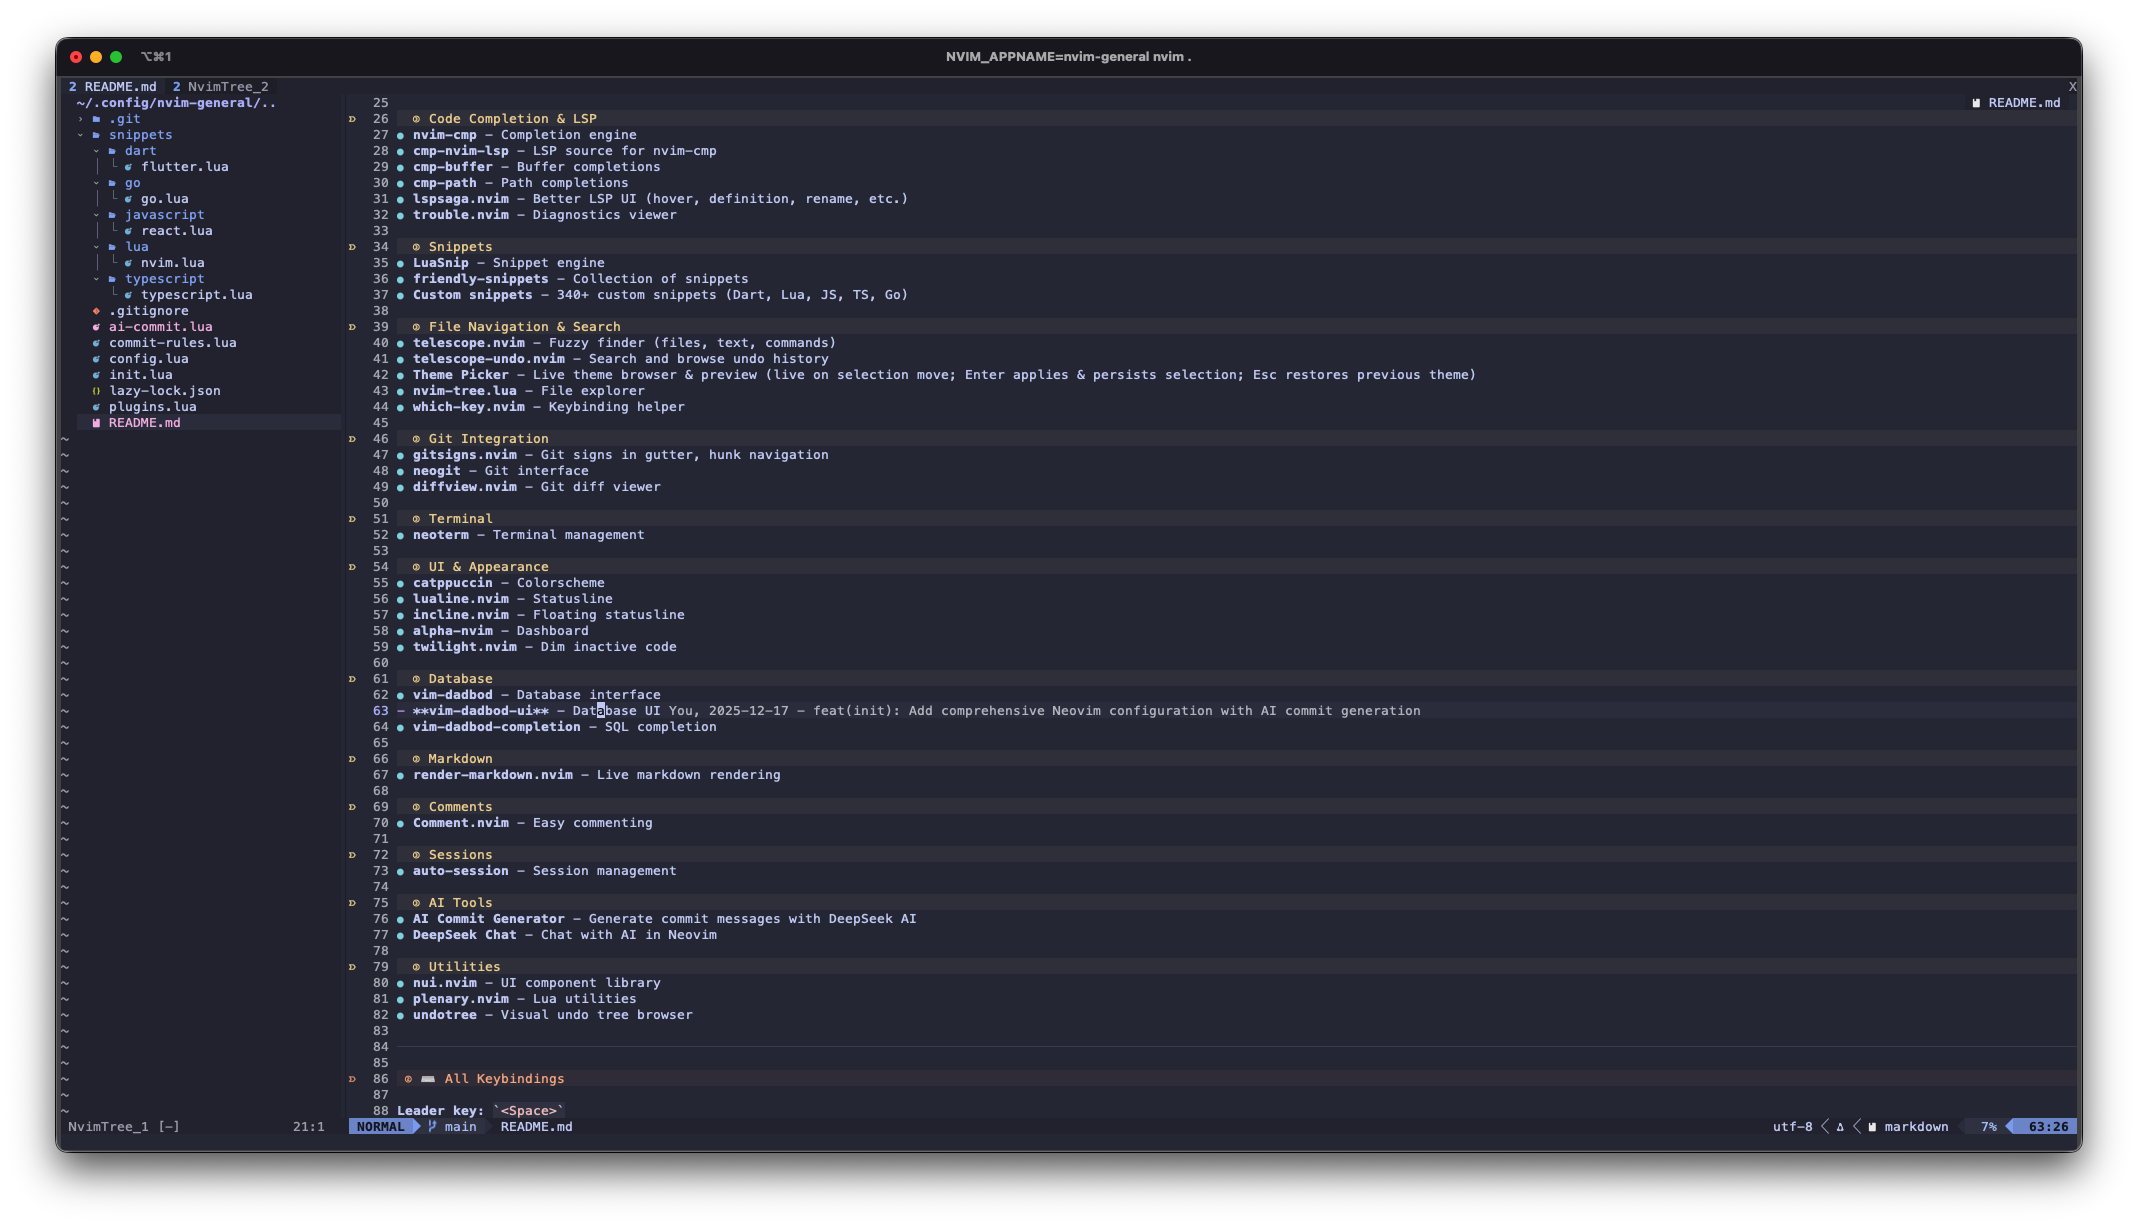
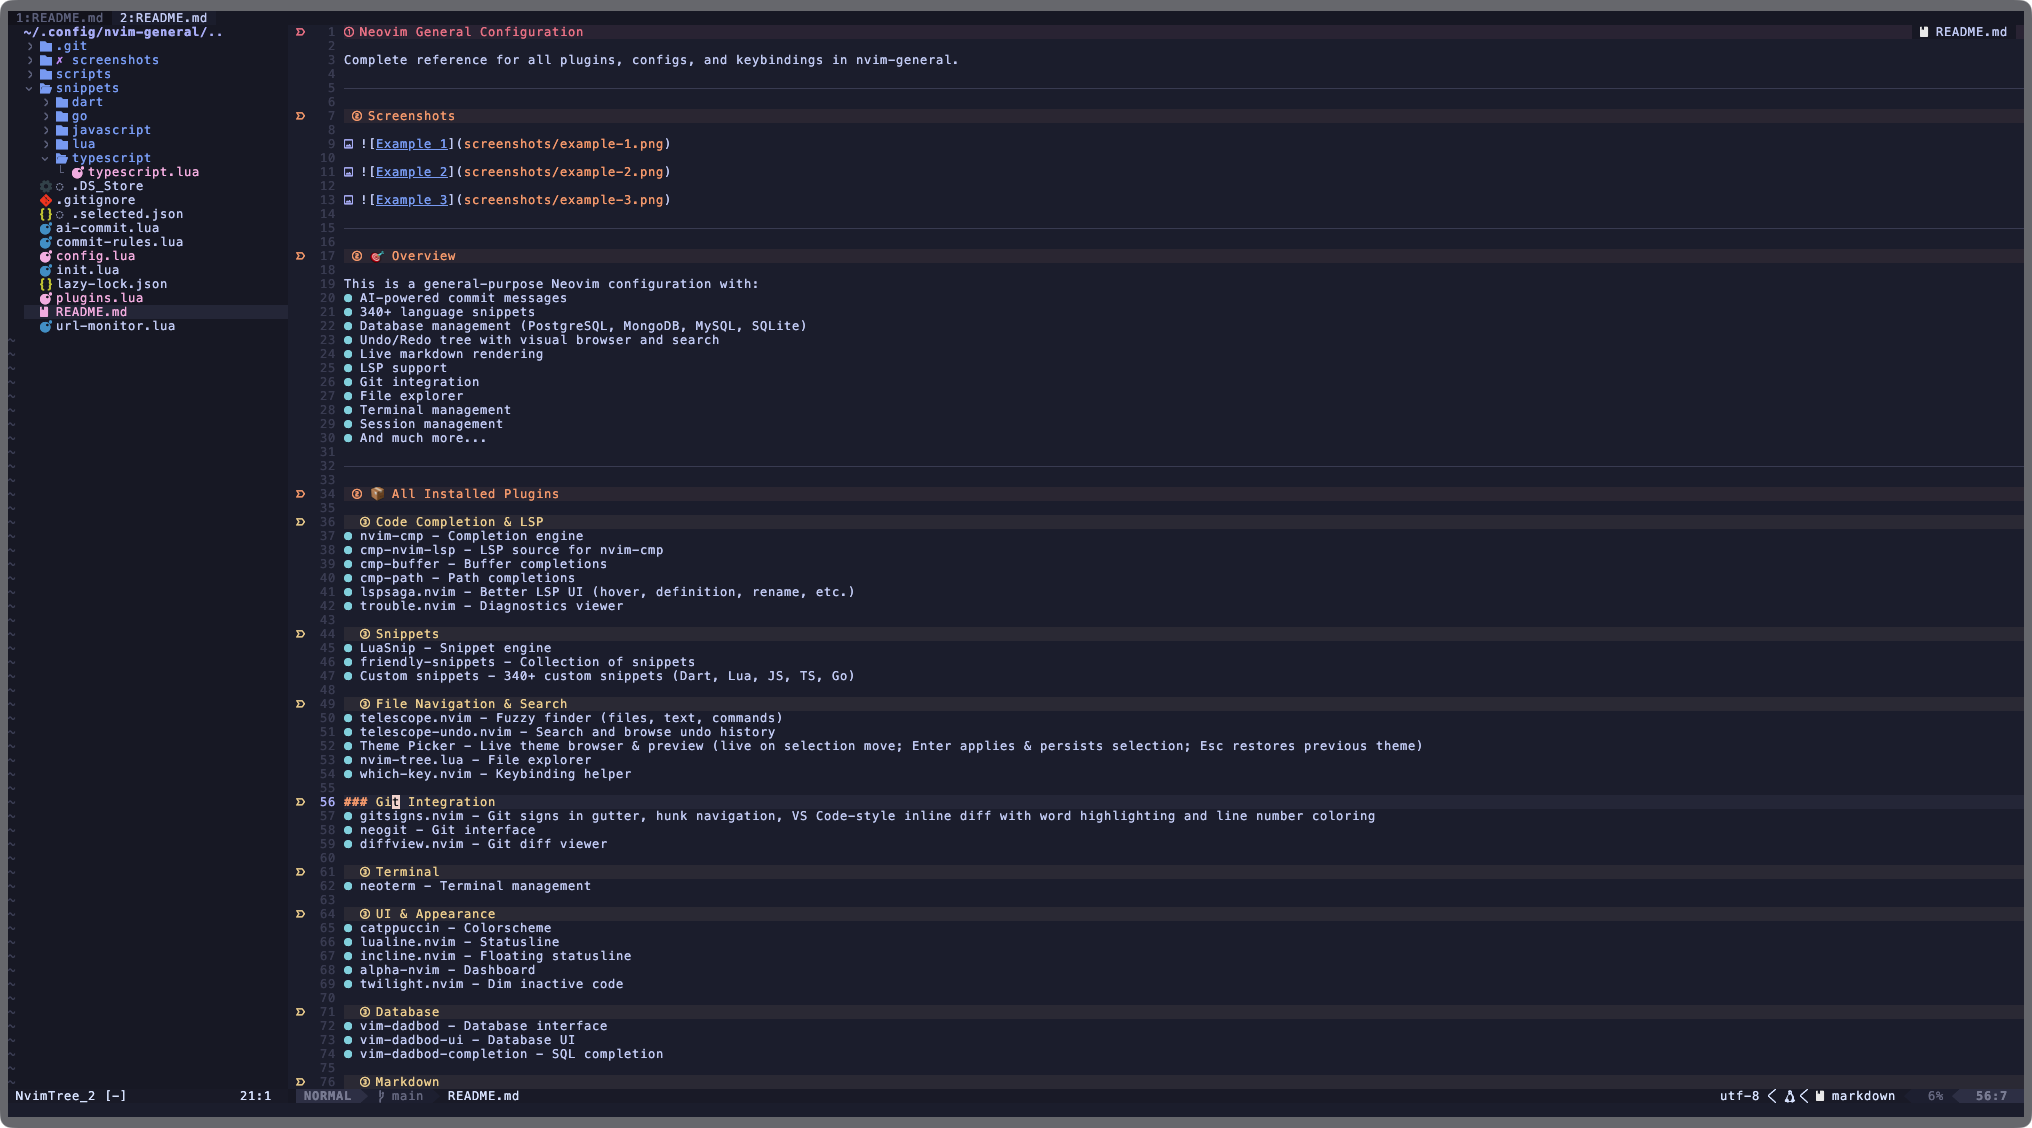
feat(comments): Add enhanced comment search and TODO keyword expansion
- config.lua
  * [Keymaps] Add `<Space>sc` mapping for filetype-aware comment search using Telescope live_grep with dynamic comment character detection
  * [Keymaps] Add `<Space>sC` mapping for broad comment search using regex pattern `^\s*[/#-]` across all files
  * [Keymaps] Update `<Space>st` description to reflect expanded search scope for TODO/FIXME/NOTE keywords

- plugins.lua
  * [todo-comments] Extend keyword configuration with FIX, HACK, WARN, PERF, NOTE, and TEST categories including alt keywords for comprehensive comment detection
  * [todo-comments] Enable `merge_keywords = true` to preserve default keywords alongside custom additions

- README.md
  * [Documentation] Update TODO Comments section to include expanded keyword list and new comment search keymaps
  * [Documentation] Add documentation for `<Space>sc` (filetype-aware comment search) and `<Space>sC` (broad comment search) keybindings

- screenshots/example-1.png
  * [Screenshots] Update example-1 screenshot to reflect new comment search functionality

- screenshots/example-2.png
  * [Screenshots] Update example-2 screenshot to reflect new comment search functionality

- screenshots/example-3.png
  * [Screenshots] Update example-3 screenshot to reflect new comment search functionality

diff --git a/README.md b/README.md
@@ -248,12 +248,15 @@ Use `]c`/`[c` to navigate between changes. `g<C-x>` cycles layouts. In the file 
 | `<Space>me` | Enable rendering  |
 | `<Space>md` | Disable rendering |
 
-### TODO Comments
-| Keymap      | Action                   |
-| ----------- | ------------------------ |
-| `]t`        | Next TODO/FIXME comment  |
-| `[t`        | Previous TODO/FIXME comment |
-| `<Space>st` | Search TODO comments     |
+### TODO Comments & All Comments
+Searches for TODO, FIXME, BUG, HACK, WARNING, NOTE, INFO, PERF, TEST, and more (full list in plugins.lua).
+| Keymap       | Action                                   |
+| ------------ | ---------------------------------------- |
+| `]t`         | Next TODO/FIXME comment                  |
+| `[t`         | Previous TODO/FIXME comment              |
+| `<Space>st`  | Search all TODO/FIXME/NOTE/etc keywords  |
+| `<Space>sc`  | Search ALL comment lines (filetype-aware — finds commented-out code too) |
+| `<Space>sC`  | Broad comment search (regex: `^\s*[/#-]` across all files) |
 
 ### Terminal
 | Keymap             | Action               |
